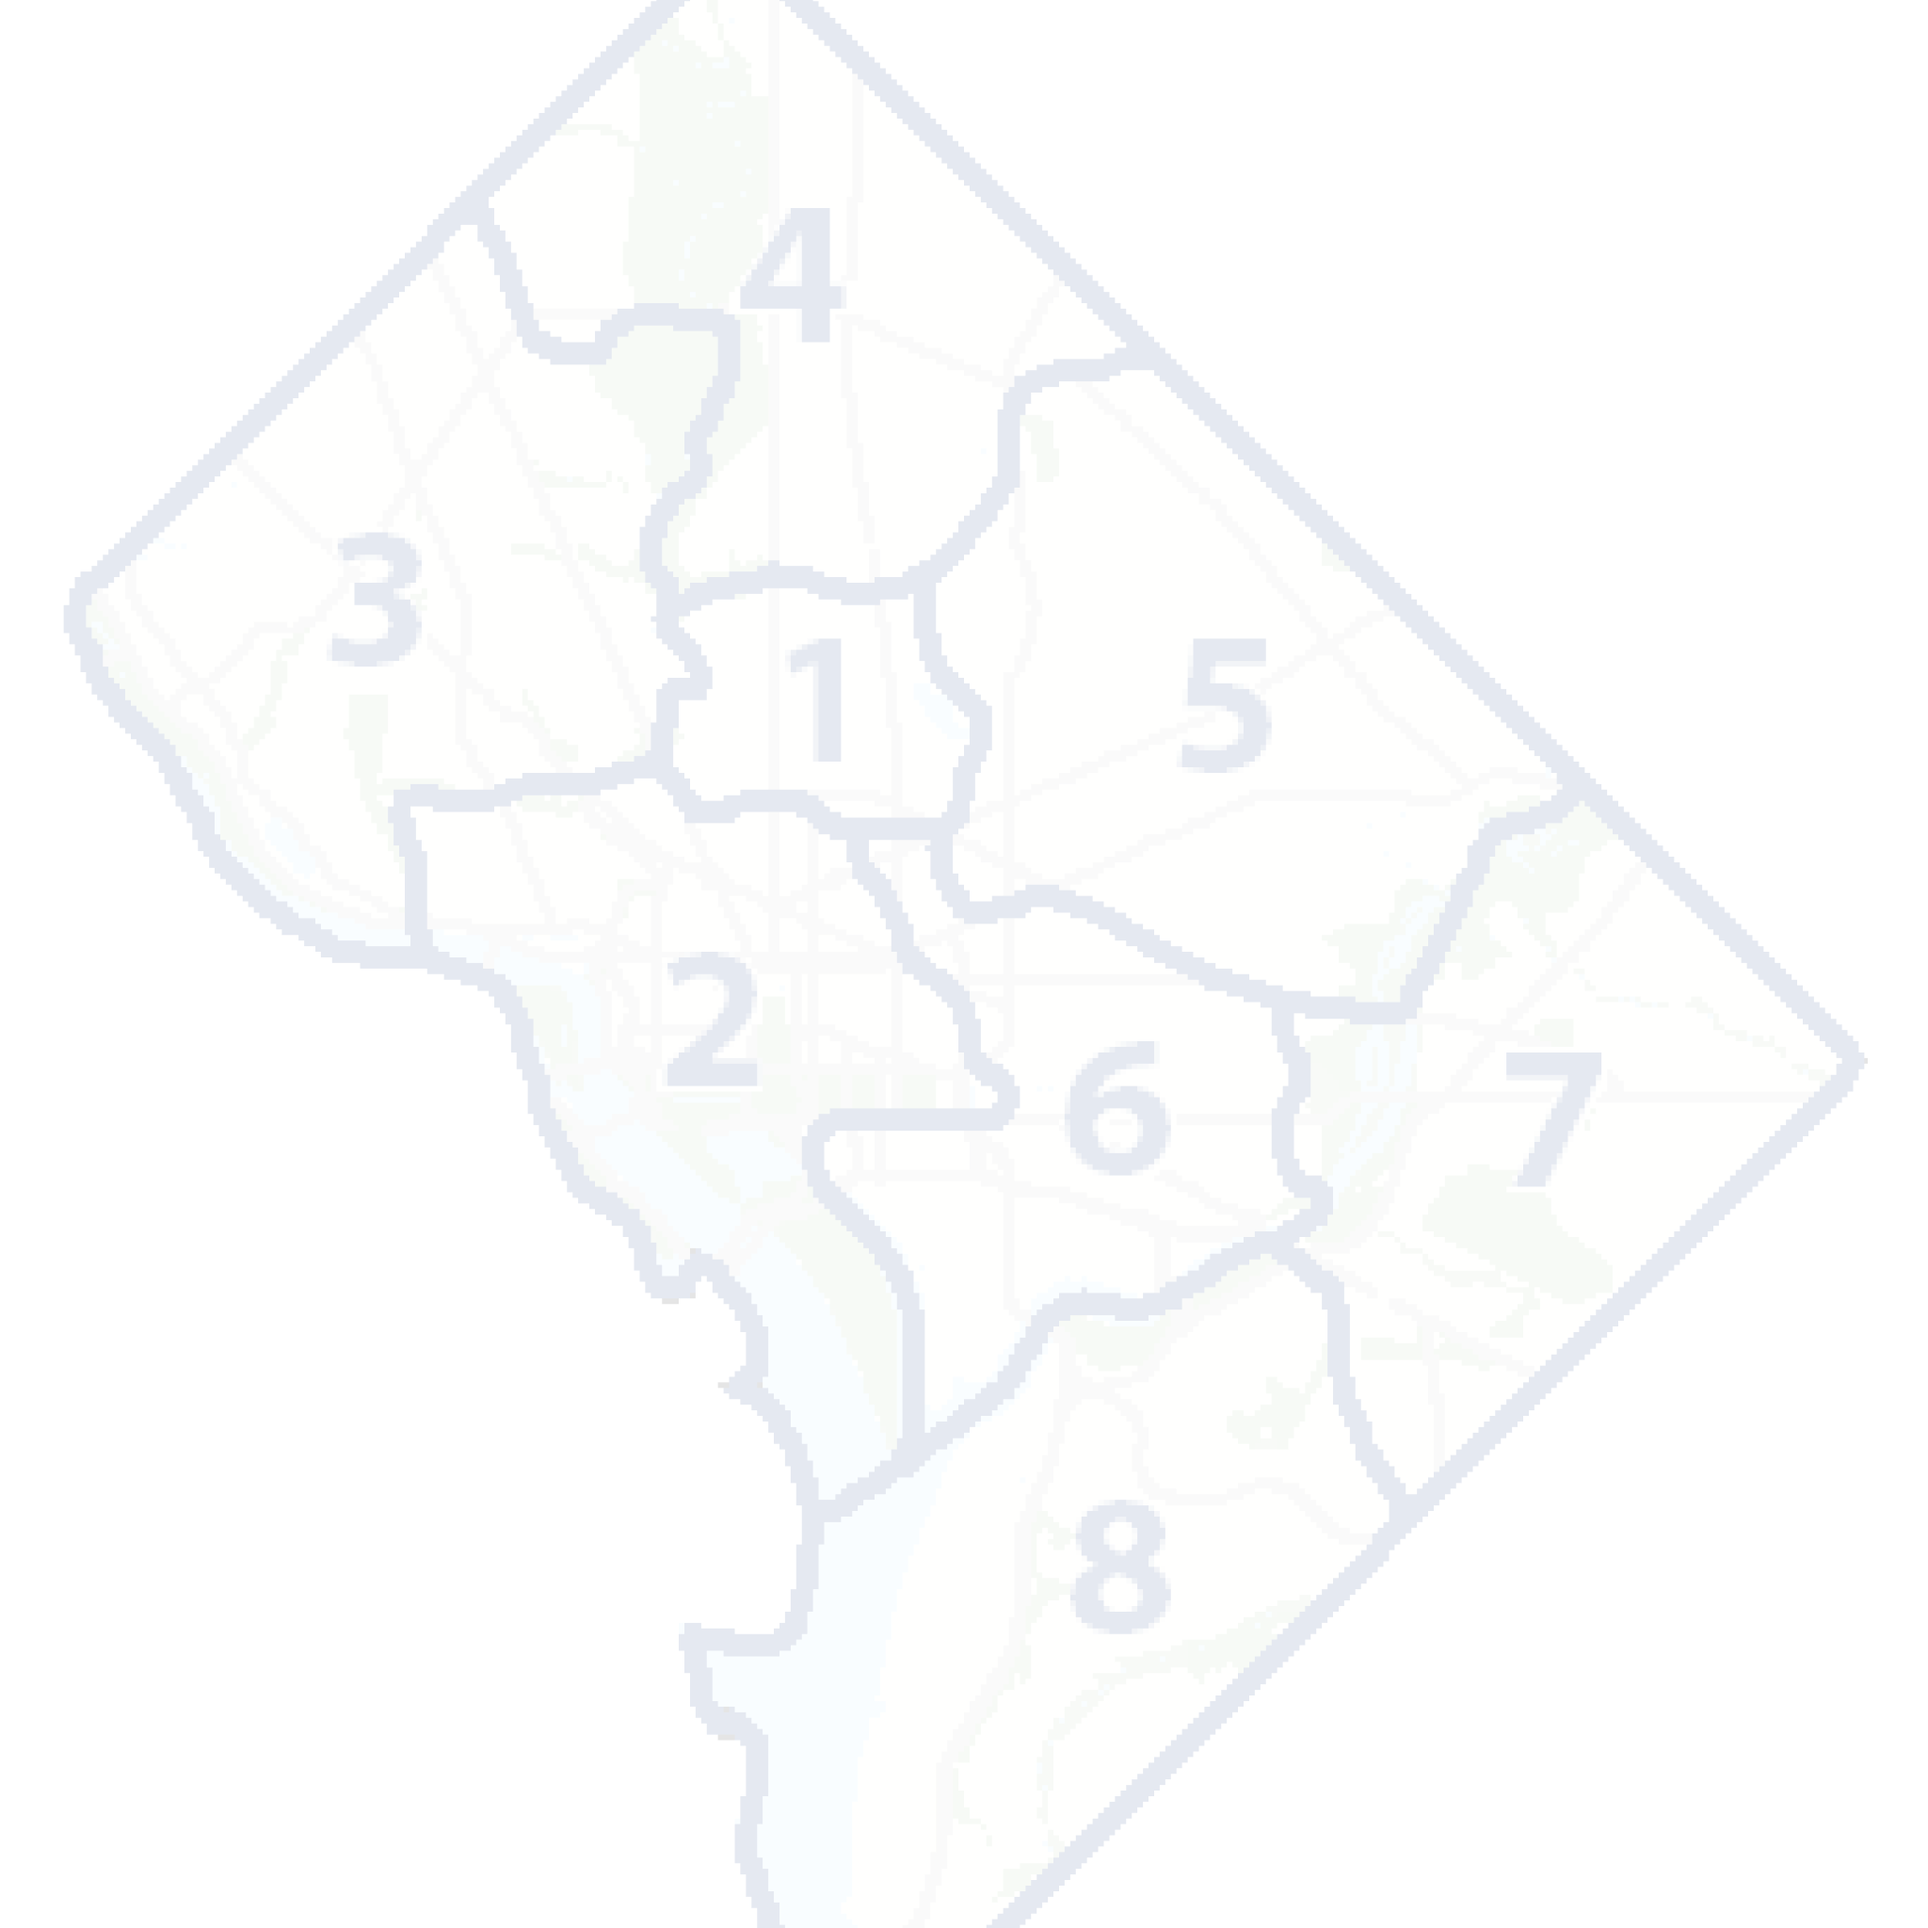
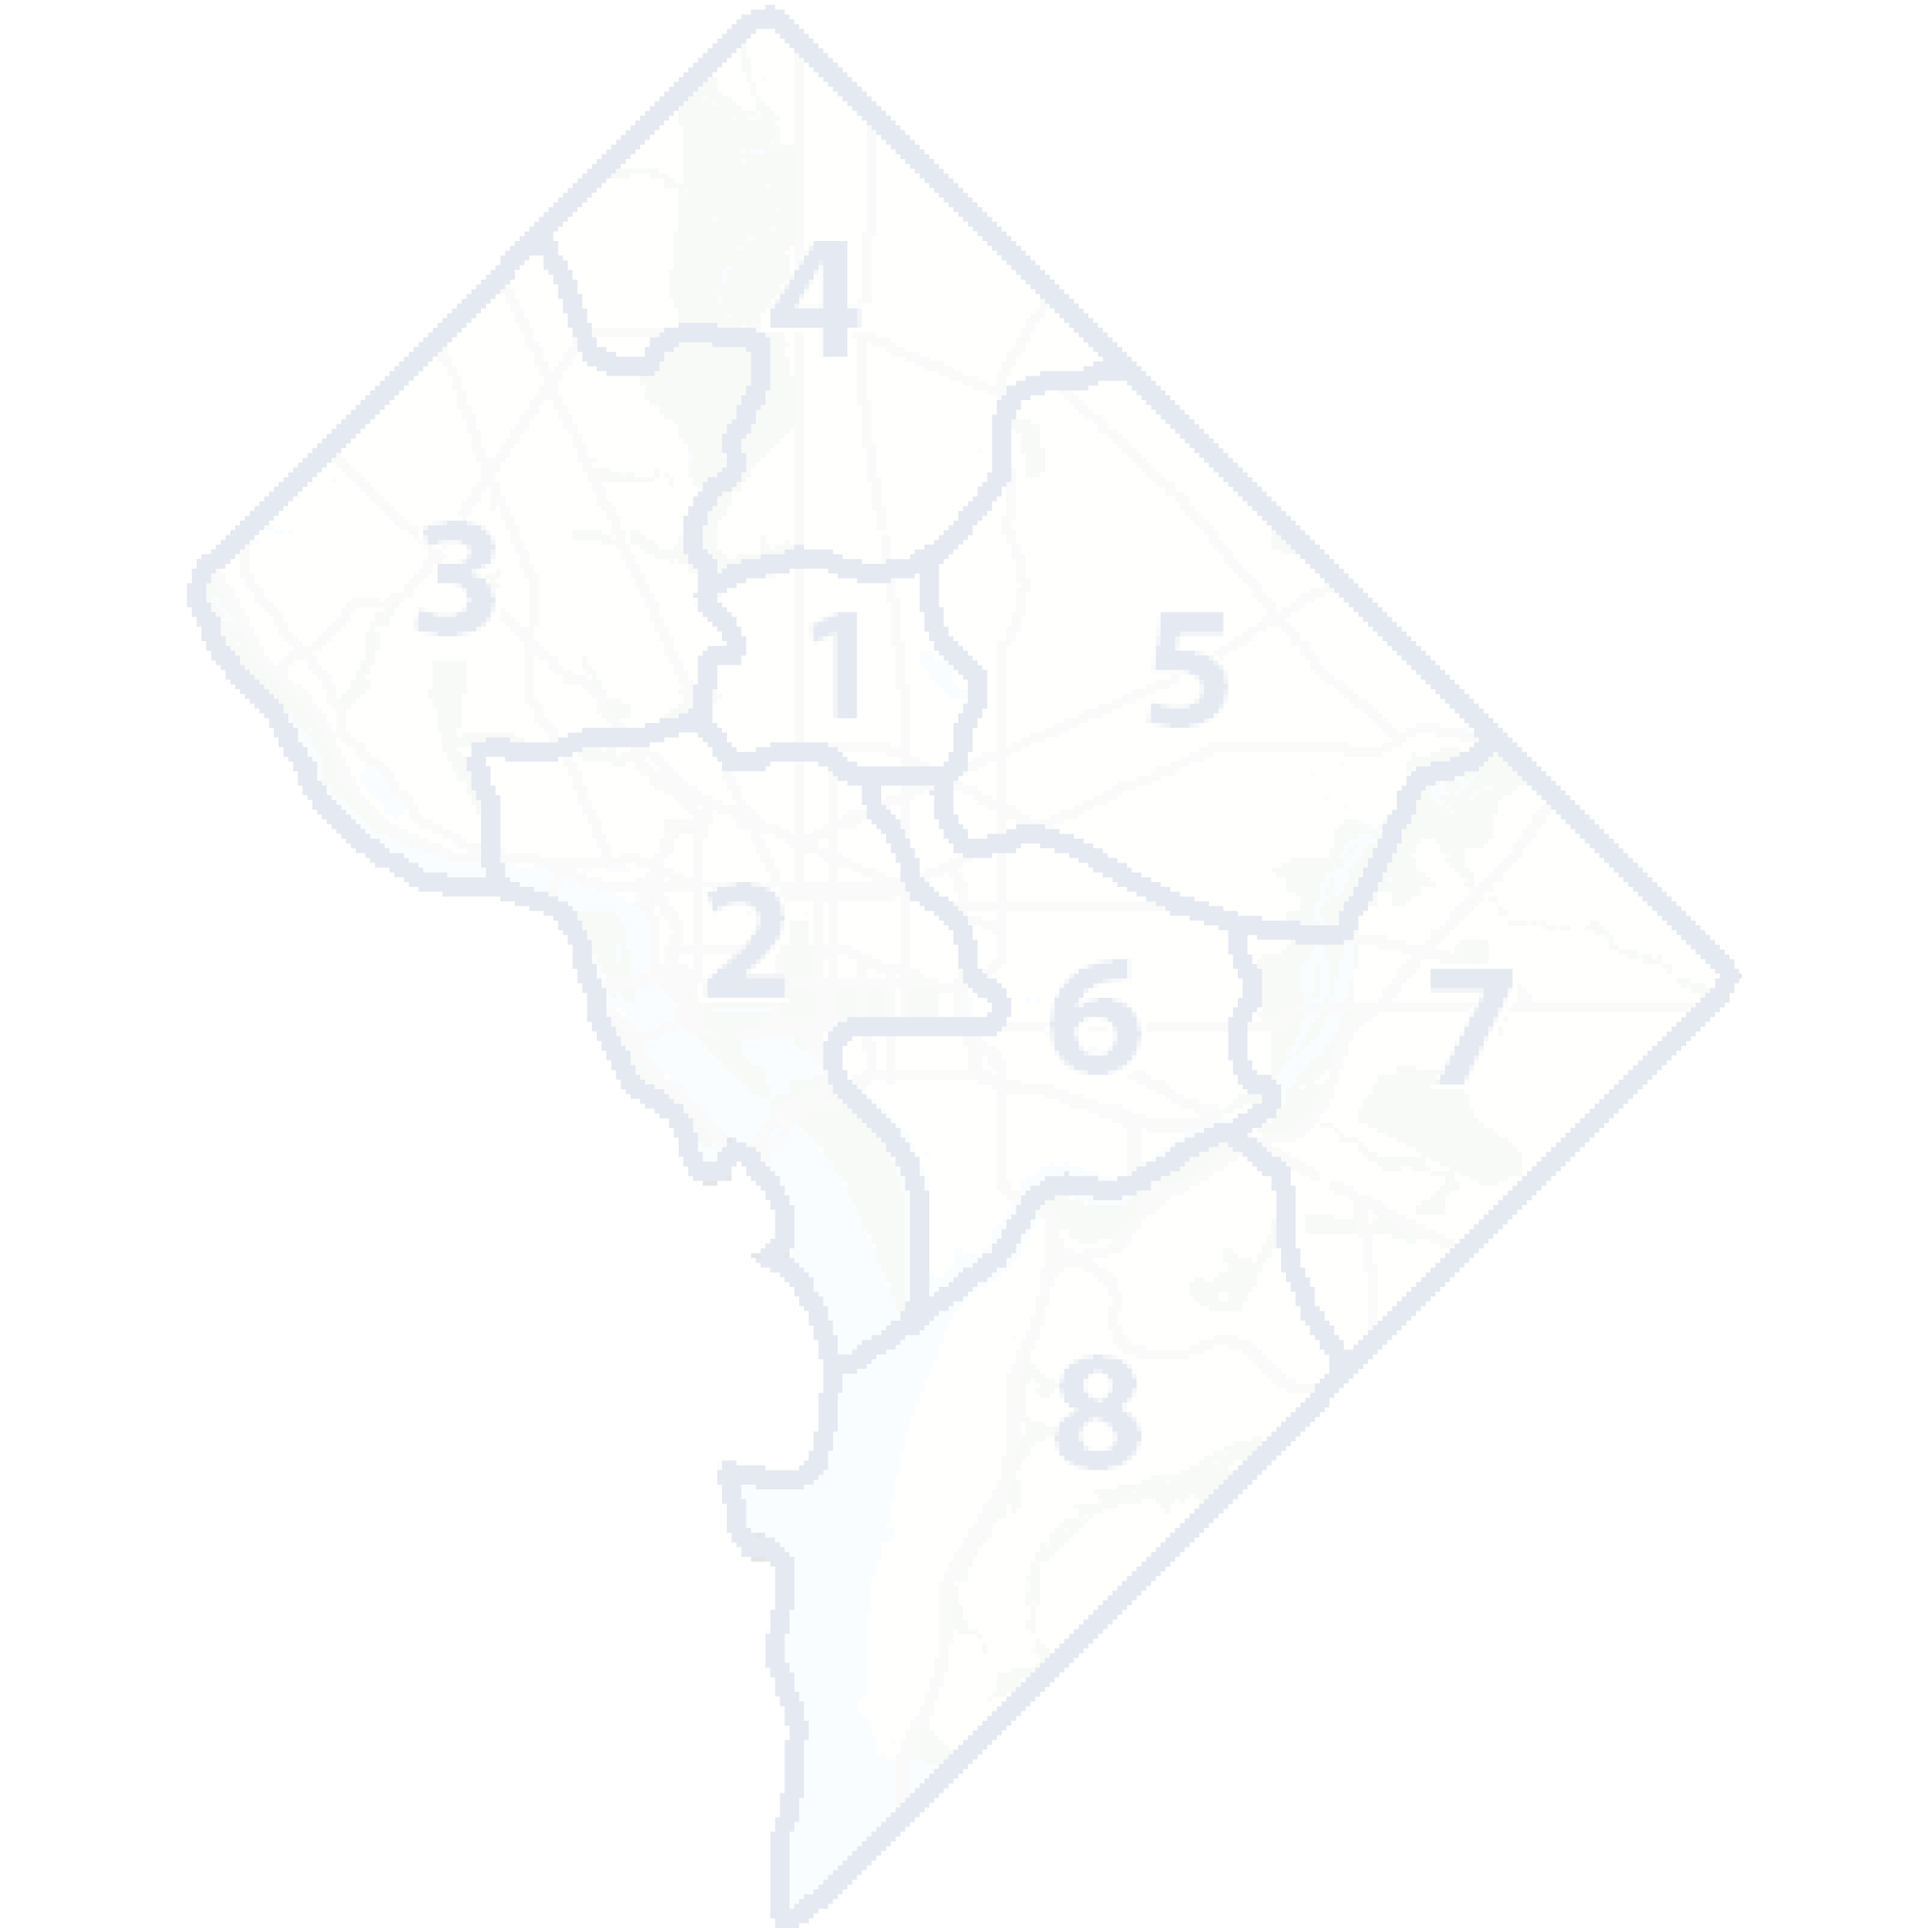
update map to show all of DC; update councilmember card styles to lift from background some

diff --git a/src/App.svelte b/src/App.svelte
@@ -8,7 +8,7 @@
   let data = JSON.parse(dataJSON);
   $: data = JSON.parse(dataJSON);
 
-  // helper function to grab people by their ward
+  // helper function to grab councilmember records by ward
   function councilmemberForWard(data, wardNumber) {
     return data.filter((councilmember) => {
       return councilmember.position == `Ward ${wardNumber}`;
@@ -39,30 +39,29 @@
   </div>
 
   <div class="m-4 border-2 border-slate-300 space-y-1" style="width:600px;">
-    <div class="grid gap-4 grid-cols-4 grid-rows-1 p-2">
+    <div class="grid gap-4 grid-cols-4 grid-rows-4 p-2" style="background-image: url('{DCBackground}'); background-size: contain; background-repeat: no-repeat; background-position: bottom center;">
       {#each atLargeCouncilmembers as councilmember}
         <CouncilmemberCell {councilmember} />
       {/each}
-      <div />
-    </div>
 
-    <div class="grid gap-4 grid-cols-4 grid-rows-4 p-2" style="background-image: url('{DCBackground}'); background-size: contain; background-repeat: no-repeat; background-position: center center;">
       <div />
       <CouncilmemberCell councilmember={councilmember_for_ward_4} />
       <div />
+
       <CouncilmemberCell councilmember={chairperson} />
       <CouncilmemberCell councilmember={councilmember_for_ward_3} />
       <CouncilmemberCell councilmember={councilmember_for_ward_1} />
       <CouncilmemberCell councilmember={councilmember_for_ward_5} />
+
       <div />
       <div />
       <CouncilmemberCell councilmember={councilmember_for_ward_2} />
       <CouncilmemberCell councilmember={councilmember_for_ward_6} />
+
       <CouncilmemberCell councilmember={councilmember_for_ward_7} />
       <div />
       <div />
       <CouncilmemberCell councilmember={councilmember_for_ward_8} />
-      <div />
     </div>
   </div>
 </div>

diff --git a/src/lib/CouncilmemberCell.svelte b/src/lib/CouncilmemberCell.svelte
@@ -9,10 +9,11 @@
     }
   };
 
+  $: borderColor = "border-slate-500";
   $: backgroundColor = backgroundColorForStance(councilmember.stance);
 </script>
 
-<div class="rounded-lg p-3 aspect-square flex flex-col items-center justify-between text-center {backgroundColor}">
+<div class="rounded-lg p-3 aspect-square flex flex-col items-center justify-between text-center {backgroundColor} border-2 {borderColor} drop-shadow-lg">
   <div class="text-sm text-slate-500">{councilmember.position}</div>
   <div class="text-md font-medium">{councilmember.name}</div>
   <div class="text-xs text-slate-500">{councilmember.stance}</div>
